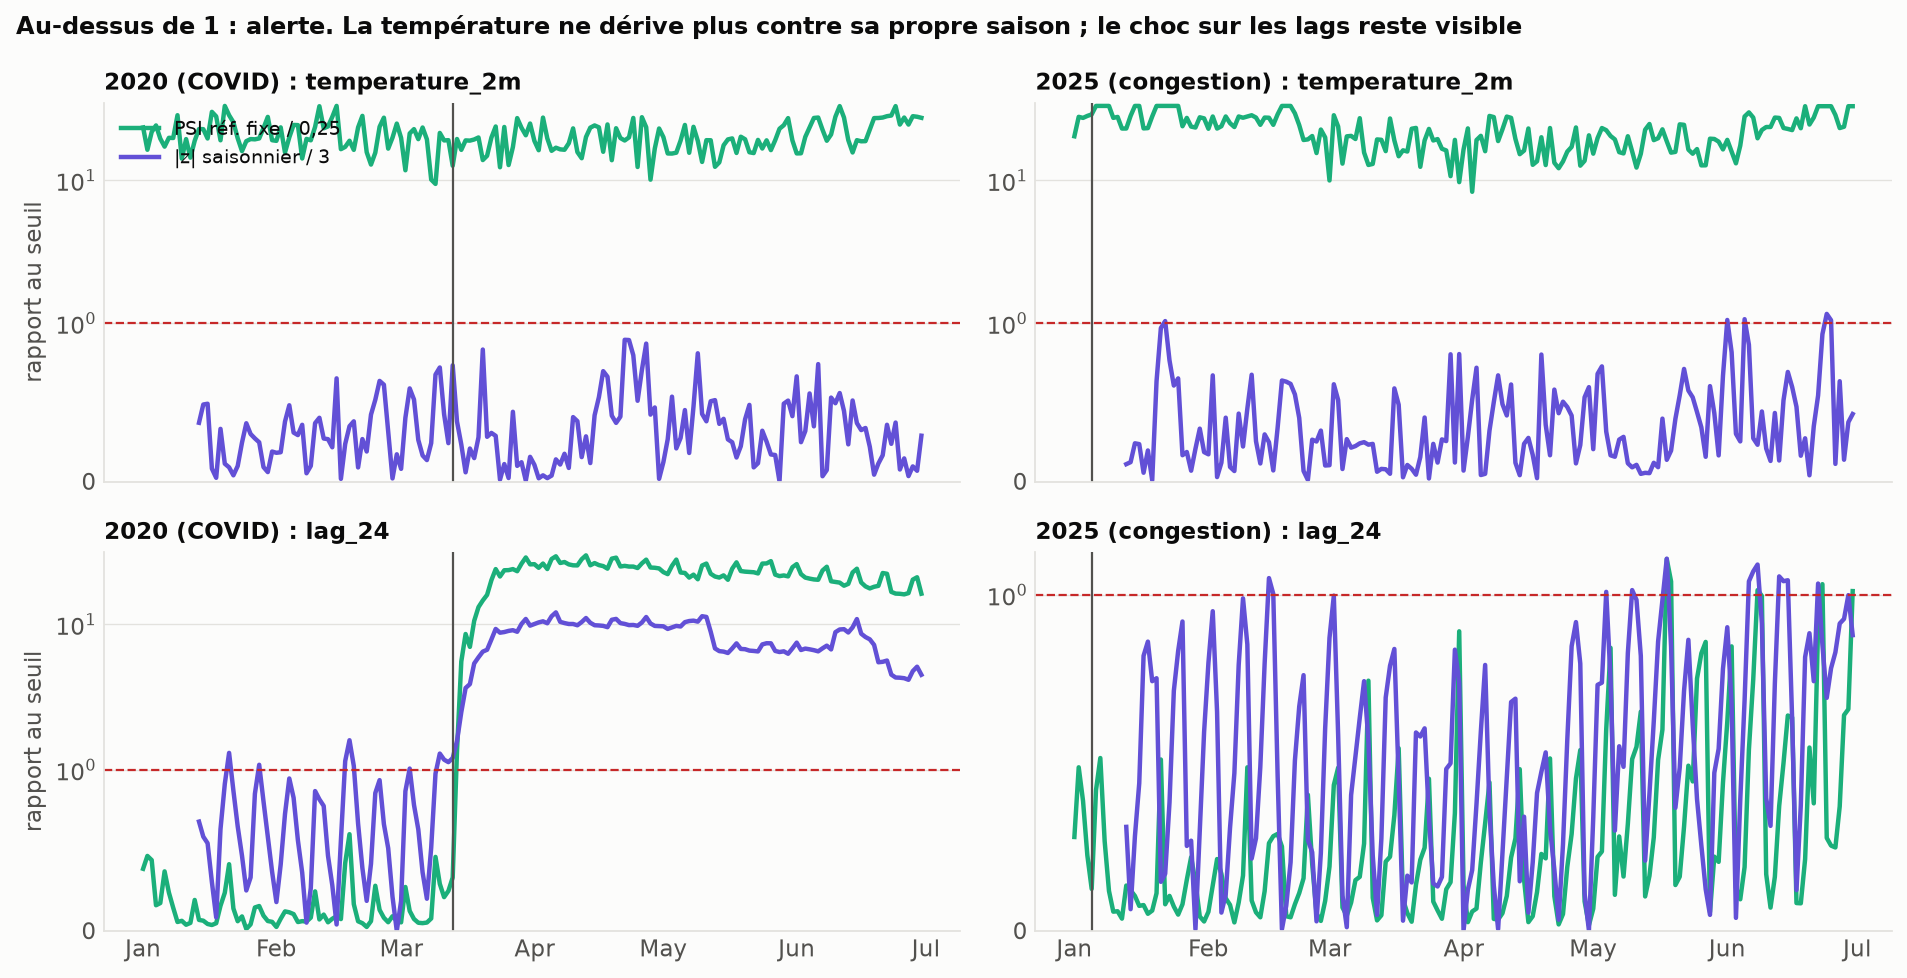
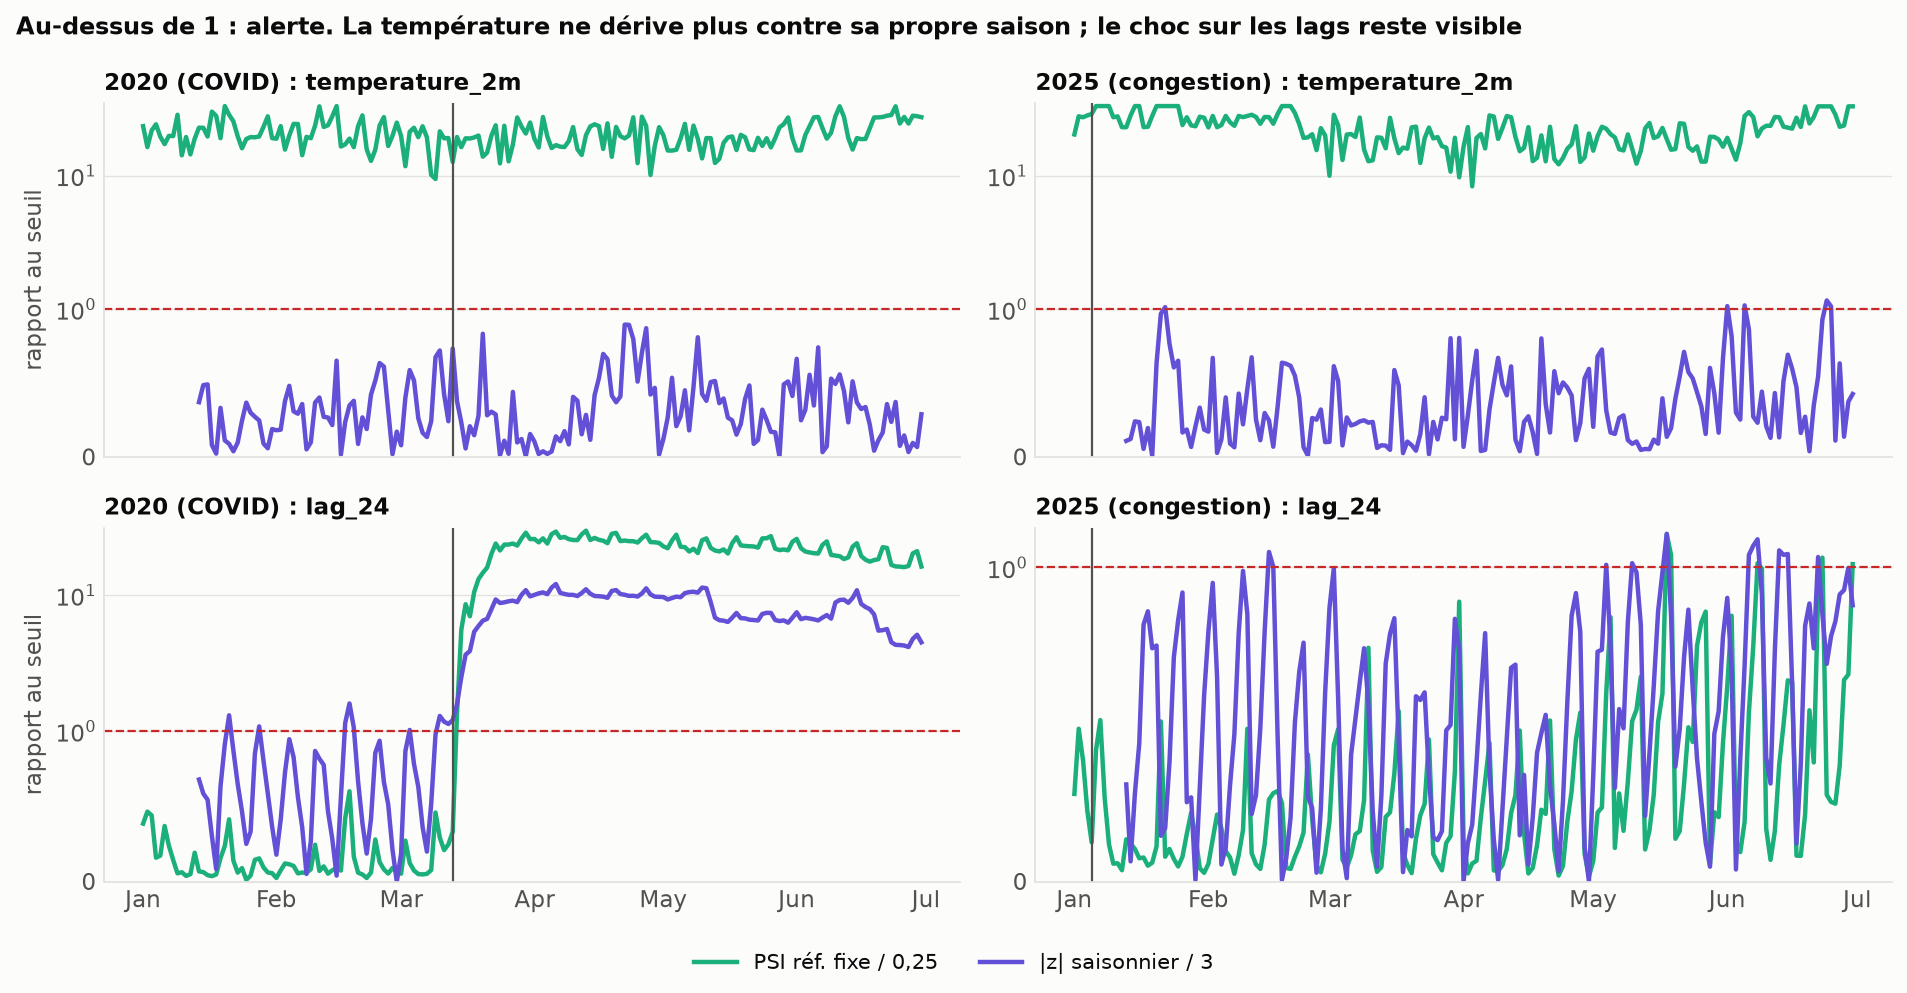
fix(figures): E8, légende sous les panneaux, dates hebdomadaires, libellés accentués

diff --git a/scripts/make_result_figures.py b/scripts/make_result_figures.py
@@ -1022,7 +1022,8 @@ def e7_signals() -> None:
             ax.xaxis.set_major_formatter(mdates.DateFormatter("%b"))
     axes[0, 0].set_ylabel("rapport au seuil")
     axes[1, 0].set_ylabel("rapport au seuil")
-    axes[0, 0].legend(loc="upper left", fontsize=8.5)
+    handles, labels = axes[0, 0].get_legend_handles_labels()
+    fig.legend(handles, labels, loc="lower center", ncol=2, frameon=False, fontsize=9.5)
     fig.suptitle(
         "Au-dessus de 1 : alerte. La température ne dérive plus contre sa propre saison ; "
         "le choc sur les lags reste visible",
@@ -1031,7 +1032,7 @@ def e7_signals() -> None:
         fontweight="bold",
         fontsize=11,
     )
-    fig.tight_layout()
+    fig.tight_layout(rect=(0, 0.05, 1, 1))  # légende sous les quatre panneaux
     viz.save(fig, "e7_signaux")
 
 
@@ -1096,7 +1097,8 @@ def e8_quality() -> None:
     for bug, c in bugs:
         d = q[q["bug"] == bug]
         lw = 2.6 if bug == "aucun" else 1.6
-        axes[0].plot(d["date"], d["volume_ratio"], color=c, lw=lw, label=bug.replace("_", " "))
+        label = {"decalage_1h": "décalage d'1 h", "zone_muette": "zone muette"}.get(bug, bug)
+        axes[0].plot(d["date"], d["volume_ratio"], color=c, lw=lw, label=label)
         axes[1].plot(d["date"], d["profile_corr"], color=c, lw=lw)
         axes[2].plot(d["date"], d["zero_zones"], color=c, lw=lw)
     axes[0].axhspan(th["volume_low"], th["volume_high"], color=viz.GRID, alpha=0.5, lw=0)
@@ -1112,9 +1114,11 @@ def e8_quality() -> None:
             alpha=0.06,
             lw=0,
         )
+        ax.xaxis.set_major_locator(mdates.WeekdayLocator(byweekday=mdates.MO))
         ax.xaxis.set_major_formatter(mdates.DateFormatter("%d %b"))
-    axes[0].legend(loc="lower left", fontsize=8)
-    fig.tight_layout()
+    handles, labels = axes[0].get_legend_handles_labels()
+    fig.legend(handles, labels, loc="lower center", ncol=5, frameon=False, fontsize=9)
+    fig.tight_layout(rect=(0, 0.08, 1, 1))  # légende sous les trois panneaux
     viz.save(fig, "e8_qualite")
 
 
